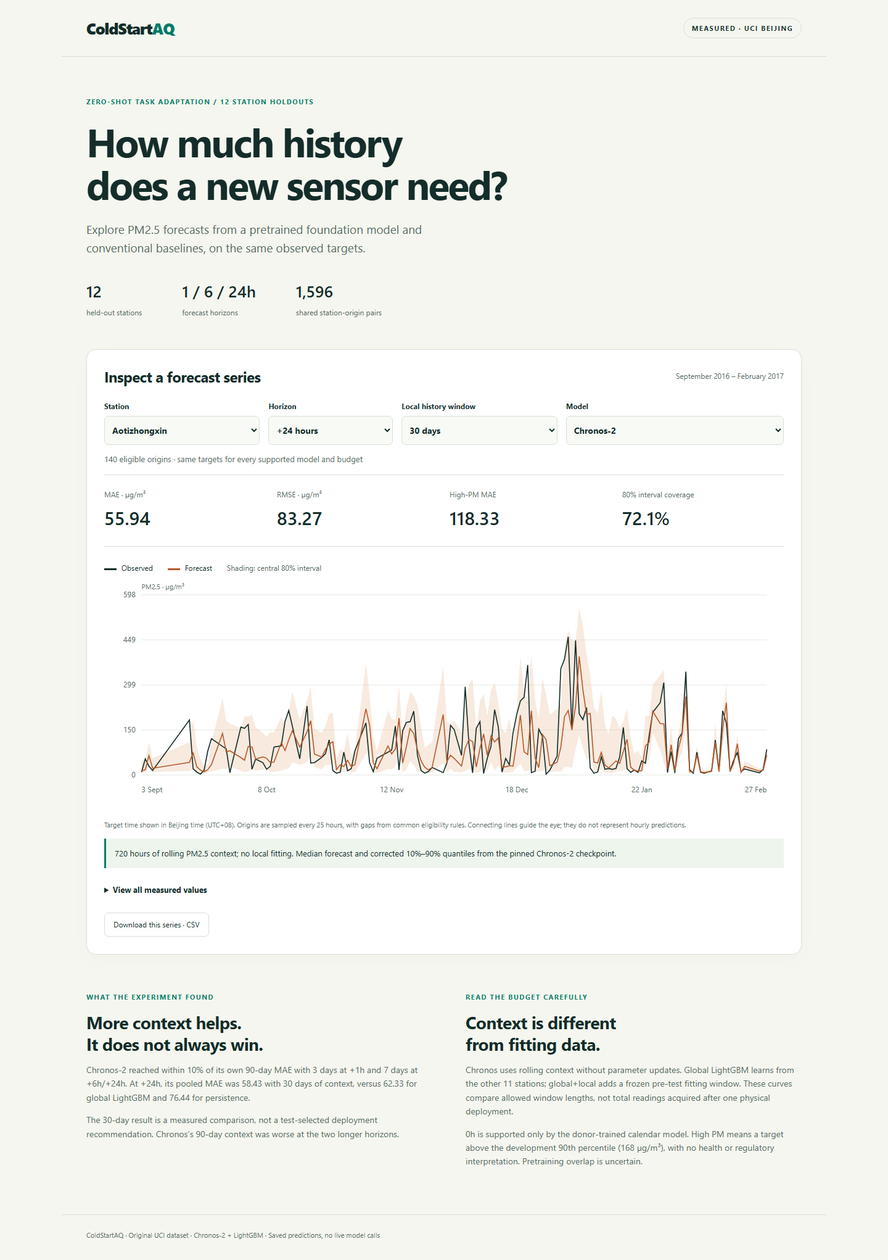
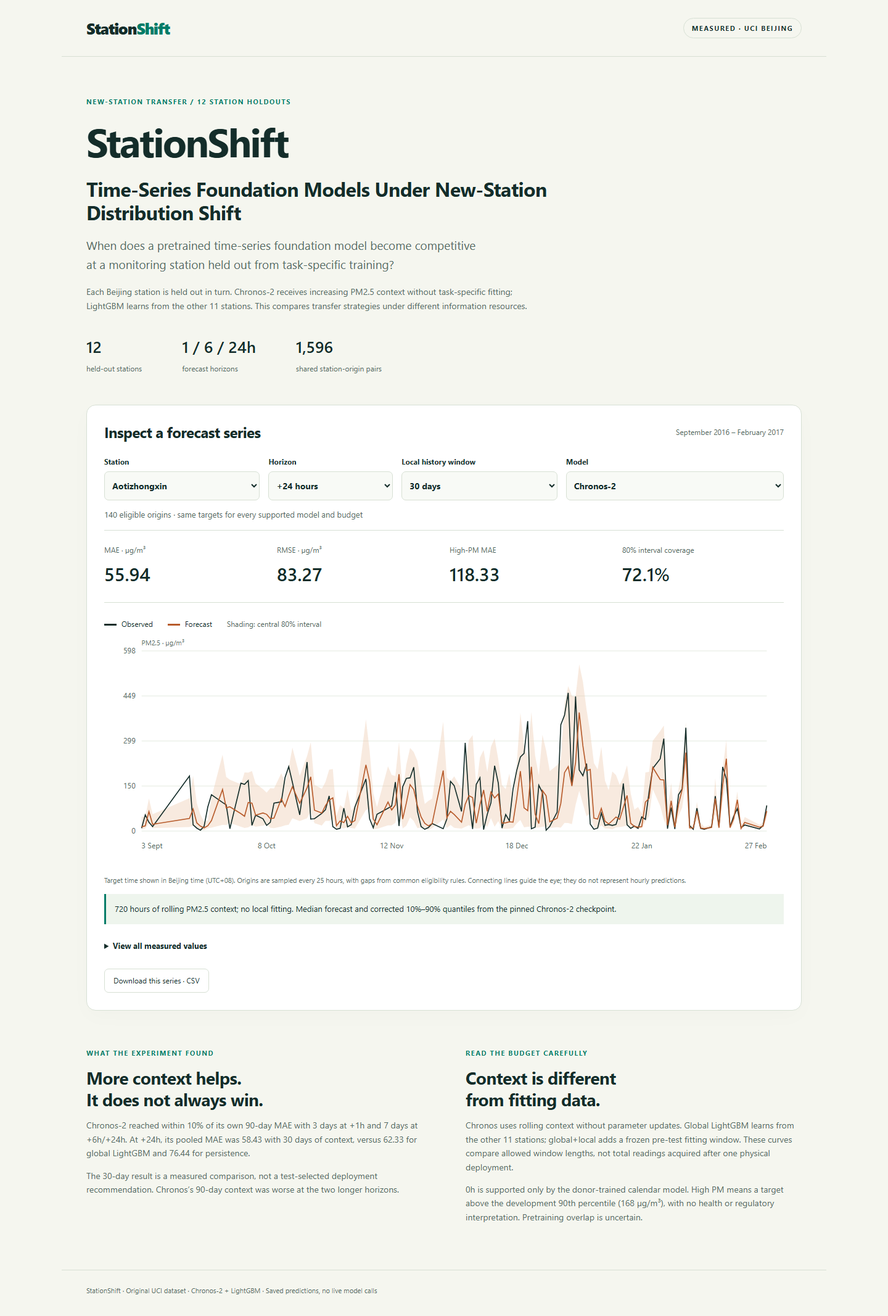
Rename project to StationShift

diff --git a/site/style.css b/site/style.css
@@ -1,3 +1,4 @@
 :root{--ink:#142d2a;--muted:#536b64;--paper:#f5f6ef;--line:#d7e0d4;--green:#007c68;--orange:#b75b2b}*{box-sizing:border-box}body{margin:0;background:var(--paper);color:var(--ink);font:16px/1.6 system-ui,-apple-system,Segoe UI,sans-serif}header,main,footer{max-width:1240px;margin:auto;padding:0 40px}header{display:flex;justify-content:space-between;align-items:center;height:92px;border-bottom:1px solid var(--line)}.brand{font-weight:800;font-size:25px;letter-spacing:-1px;color:var(--ink);text-decoration:none}.brand span{color:var(--green)}.badge,.eyebrow{font-size:11px;font-weight:750;letter-spacing:1.5px}.badge{border:1px solid var(--line);border-radius:20px;padding:7px 13px}.intro{padding:64px 0 48px}.eyebrow{color:var(--green);margin:0 0 20px}h1{font-size:clamp(38px,5vw,64px);line-height:1.08;letter-spacing:-2.6px;margin:0 0 24px;font-weight:650}.lede{font-size:19px;max-width:640px;color:var(--muted)}.facts{display:flex;gap:65px;margin-top:34px}.facts b{display:block;font-size:26px;font-weight:600}.facts span{font-size:12px;color:var(--muted)}.explorer{background:#fff;border:1px solid var(--line);border-radius:15px;padding:28px;box-shadow:0 10px 35px #142d2a05}.section-title{display:flex;align-items:center;justify-content:space-between;gap:16px;margin-bottom:24px}h2{margin:0;font-size:24px;line-height:1.25;letter-spacing:-.6px}.section-title>span{font-size:12px;color:var(--muted)}.controls{display:grid;grid-template-columns:1fr .8fr 1fr 1.4fr;gap:14px}label{font-size:12px;font-weight:650}select{display:block;width:100%;font:inherit;font-size:14px;color:var(--ink);background:#f8faf6;border:1px solid var(--line);border-radius:7px;padding:12px 8px;margin-top:6px}select:focus-visible,button:focus-visible,summary:focus-visible,a:focus-visible{outline:3px solid #dfb637;outline-offset:3px}#status{font-size:13px;color:var(--muted);min-height:22px}.metrics{display:grid;grid-template-columns:repeat(4,1fr);border-top:1px solid var(--line);border-bottom:1px solid var(--line);padding:22px 0;margin-top:12px;gap:18px}.metrics span{display:block;color:var(--muted);font-size:12px}.metrics strong{display:block;font-size:30px;font-weight:600;margin-top:4px}.legend{display:flex;gap:24px;font-size:12px;margin:25px 0 12px;flex-wrap:wrap}.observed:before,.prediction:before{content:'';display:inline-block;width:20px;height:3px;background:var(--ink);vertical-align:middle;margin-right:8px}.prediction:before{background:var(--orange)}#interval-legend{color:var(--muted)}.chart-wrap{width:100%;overflow:hidden}svg{width:100%;height:auto;display:block}.caption{font-size:11px;color:var(--muted)}.regime{font-size:13px;padding:14px;background:#eef5ed;border-left:3px solid var(--green)}summary{cursor:pointer;font-size:13px;font-weight:650;padding:12px 0}.table-scroll{max-height:360px;overflow:auto}table{border-collapse:collapse;width:100%;font-size:12px;text-align:right}th,td{padding:7px 10px;border-bottom:1px solid var(--line);white-space:nowrap}th:first-child,td:first-child{text-align:left}th{position:sticky;top:0;background:white}button{border:1px solid var(--line);border-radius:7px;color:var(--ink);background:white;font:inherit;font-size:12px;padding:9px 14px;cursor:pointer;margin-top:14px}button:hover{background:#eef5ed}.notes{display:grid;grid-template-columns:1fr 1fr;gap:70px;padding:60px 0}.notes p:not(.eyebrow){color:var(--muted);font-size:14px}.notes h2{font-size:28px}.notes .eyebrow{margin-bottom:14px}footer{border-top:1px solid var(--line);padding-top:24px;padding-bottom:32px;font-size:11px;color:var(--muted)}[hidden]{display:none!important}@media(max-width:700px){header,main,footer{padding-left:20px;padding-right:20px}header{height:75px}.badge{font-size:8px;padding:5px 8px}.intro{padding:40px 0 32px}h1{letter-spacing:-1.5px}.facts{gap:25px}.facts b{font-size:20px}.facts span{font-size:10px}.explorer{padding:18px}.section-title{display:block}.section-title>span{display:block;margin-top:10px}.controls{grid-template-columns:1fr 1fr}.metrics{grid-template-columns:1fr 1fr}.metrics strong{font-size:27px}.notes{grid-template-columns:1fr;gap:25px;padding:40px 0}.legend{gap:12px}.lede{font-size:16px}}
 :root .chart-wrap{overscroll-behavior-x:contain}
+.subtitle{max-width:820px;font-size:clamp(22px,3vw,32px);line-height:1.2}.intro-method{max-width:740px;color:var(--muted);font-size:14px}
 @media(max-width:700px){.chart-wrap{overflow-x:auto}.chart-wrap svg{min-width:640px}}

diff --git a/site/index.html b/site/index.html
@@ -2,15 +2,18 @@
 <html lang="en">
 <head>
 <meta charset="utf-8"><meta name="viewport" content="width=device-width, initial-scale=1">
-<title>ColdStartAQ · Measured forecasts</title>
+<title>StationShift: Time-Series Foundation Models Under New-Station Distribution Shift</title>
+<meta name="description" content="When do time-series foundation models transfer to a new environmental monitoring station?">
 <link rel="stylesheet" href="style.css"><script src="app.js" defer></script>
 </head>
 <body>
-<header><a class="brand" href="./">ColdStart<span>AQ</span></a><span class="badge">MEASURED · UCI BEIJING</span></header>
+<header><a class="brand" href="./">Station<span>Shift</span></a><span class="badge">MEASURED · UCI BEIJING</span></header>
 <main>
-<section class="intro"><p class="eyebrow">ZERO-SHOT TASK ADAPTATION / 12 STATION HOLDOUTS</p>
-<h1>How much history<br>does a new sensor need?</h1>
-<p class="lede">Explore PM2.5 forecasts from a pretrained foundation model and conventional baselines, on the same observed targets.</p>
+<section class="intro"><p class="eyebrow">NEW-STATION TRANSFER / 12 STATION HOLDOUTS</p>
+<h1>StationShift</h1>
+<h2 class="subtitle">Time-Series Foundation Models Under New-Station Distribution Shift</h2>
+<p class="lede">When does a pretrained time-series foundation model become competitive at a monitoring station held out from task-specific training?</p>
+<p class="intro-method">Each Beijing station is held out in turn. Chronos-2 receives increasing PM2.5 context without task-specific fitting; LightGBM learns from the other 11 stations. This compares transfer strategies under different information resources.</p>
 <div class="facts"><div><b>12</b><span>held-out stations</span></div><div><b>1 / 6 / 24h</b><span>forecast horizons</span></div><div><b id="total">1,596</b><span>shared station-origin pairs</span></div></div>
 </section>
 <section class="explorer" aria-labelledby="explorer-title">
@@ -35,5 +38,5 @@
 <section class="notes"><article><p class="eyebrow">WHAT THE EXPERIMENT FOUND</p><h2>More context helps.<br>It does not always win.</h2><p>Chronos-2 reached within 10% of its own 90-day MAE with 3 days at +1h and 7 days at +6h/+24h. At +24h, its pooled MAE was 58.43 with 30 days of context, versus 62.33 for global LightGBM and 76.44 for persistence.</p><p>The 30-day result is a measured comparison, not a test-selected deployment recommendation. Chronos’s 90-day context was worse at the two longer horizons.</p></article>
 <article><p class="eyebrow">READ THE BUDGET CAREFULLY</p><h2>Context is different<br>from fitting data.</h2><p>Chronos uses rolling context without parameter updates. Global LightGBM learns from the other 11 stations; global+local adds a frozen pre-test fitting window. These curves compare allowed window lengths, not total readings acquired after one physical deployment.</p><p>0h is supported only by the donor-trained calendar model. High PM means a target above the development 90th percentile (168 µg/m³), with no health or regulatory interpretation. Pretraining overlap is uncertain.</p></article></section>
 </main>
-<footer>ColdStartAQ · Original UCI dataset · Chronos-2 + LightGBM · Saved predictions, no live model calls</footer>
+<footer>StationShift · Original UCI dataset · Chronos-2 + LightGBM · Saved predictions, no live model calls</footer>
 </body></html>

diff --git a/site/app.js b/site/app.js
@@ -43,5 +43,5 @@ function update(){
  $('rows').replaceChildren();
  for(const r of current.rows){const tr=document.createElement('tr');for(const text of [dateFmt.format(r[0]),...r.slice(1).map(fmt)]){const td=document.createElement('td');td.textContent=text;tr.append(td);}$('rows').append(tr);}
 }
-$('download').addEventListener('click',()=>{if(!current)return;const csv='target_time_utc,observed,prediction,q10,q90\n'+current.rows.map(r=>[new Date(r[0]).toISOString(),...r.slice(1).map(v=>v??'')].join(',')).join('\n');const url=URL.createObjectURL(new Blob([csv],{type:'text/csv'}));const a=document.createElement('a');a.href=url;a.download=`coldstartaq-${$('station').value}-${$('horizon').value}h.csv`;a.click();setTimeout(()=>URL.revokeObjectURL(url),1000);});
+$('download').addEventListener('click',()=>{if(!current)return;const csv='target_time_utc,observed,prediction,q10,q90\n'+current.rows.map(r=>[new Date(r[0]).toISOString(),...r.slice(1).map(v=>v??'')].join(',')).join('\n');const url=URL.createObjectURL(new Blob([csv],{type:'text/csv'}));const a=document.createElement('a');a.href=url;a.download=`stationshift-${$('station').value}-${$('horizon').value}h.csv`;a.click();setTimeout(()=>URL.revokeObjectURL(url),1000);});
 fetch('data.json').then(r=>{if(!r.ok)throw new Error('HTTP '+r.status);return r.json();}).then(d=>{data=d;populate('station',d.stations,'Aotizhongxin');populate('model',d.models,'Chronos-2');$('total').textContent=d.totalOrigins.toLocaleString();for(const id of controls)$(id).addEventListener('change',update);update();}).catch(e=>{$('status').textContent='Could not load saved results. Serve the site with the README command and reload. '+e.message;});

diff --git a/stationshift/report.py b/stationshift/report.py
@@ -157,7 +157,7 @@ def main():
         station_distribution(station,figs)
         hardware=json.loads((folder/'hardware.json').read_text())
         counts=cohort.groupby('station').eligible.agg(['size','sum']).rename(columns={'size':'candidates','sum':'retained'})
-        text=f'''# ColdStartAQ measured results\n\nAll 12 station holdouts completed under the frozen protocol. **{len(cohort[cohort.eligible])} retained station-origin pairs** from {len(cohort)} candidates, each scored at 1, 6 and 24 hours. PM2.5 errors are µg/m³.\n\n## Accuracy and cost\n\n{table(pooled,costs)}\n\nHigh-PM MAE combines the three horizons, weighting qualifying targets equally. Threshold: observed PM2.5 >168 µg/m³, the development-only pooled 90th percentile. Horizon-specific high errors and bias are in metrics.csv. No health interpretation is intended.\n\n![Pooled adaptation curves](../results/figures/adaptation_pooled.png)\n\n## History to within 10% of mature performance\n\n{th.to_markdown(index=False,floatfmt='.2f')}\n\nEarliest budget with all larger supported budgets also within 10% of its own 90d MAE; not a cross-model usefulness threshold. Per-station thresholds are in station_history_threshold.csv.\n\n## Probabilistic performance (Chronos only)\n\n{probabilistic.to_markdown(index=False,floatfmt='.3f')}\n\nIntervals target 80% coverage. Pinball averages quantiles .1/.5/.9. High-event calibration is conditional on observed extremes, so it need not equal marginal 80% even for a marginally calibrated forecaster. Deterministic baselines have no comparable intervals.\n\n## Coverage and uncertainty\n\n{counts.to_markdown()}\n\nStation-level MAE/RMSE/MASE and bias: station_metrics.csv; individual station curves: results/figures/adaptation_STATION.png. metrics.csv contains 95% paired station-cluster bootstrap intervals and paired MAE differences against persistence (2000 replicates). Resampling whole stations preserves serial dependence. Correlated citywide shocks and only 12 stations limit interval interpretation. Complete-history eligibility and sparse 25-hour sampling limit generalization to outages or every hourly issuance.\n\n## Efficiency\n\nGPU: {hardware['gpu']}; CPU: {hardware['processor']}; four CPU threads. Chronos has {hardware['pretrained_parameters']:,} frozen parameters. No API fees. costs.csv reports actual donor/local sample counts, tree leaf counts and exclusive fit/inference times. Cumulative process peak CUDA allocation at station completion is in each complete.json; these are not independent station peaks. Model load timing and package versions: hardware.json. Local fitting samples can be fewer than the nominal clock-hour budget due to horizon/feature boundaries and missingness. Tree leaf counts are not directly comparable to neural parameter counts.\n\n## Interpretation and limitations\n\nThe experiment compares **history-window budgets**, not the time required after a single sensor deployment. LightGBM global+local uses a frozen pre-test H-hour fitting window and rolling 24-hour inference context; Chronos uses a rolling H-hour context with no fitting. Thus the models consume different kinds of history and do not have equal total acquisition budgets. A plateau in the global/naive curves reflects their fixed feature footprints. H=0 has only the donor-trained calendar reference; a context-free Chronos forecast is N/A.\n\nThese are zero-shot task-adaptation measurements, not a guarantee Beijing was absent from pretraining. No claim of novelty for air-quality forecasting, station holdout, uncertainty, or chronological evaluation. Only one TSFM and one fixed LightGBM specification were tested. There is no test tuning or optional masking study.\n\n## Error inspection\n\nTop 20 absolute errors for each mature model: worst_cases.csv. Tags are overlapping observed-variable descriptions (rapid rises/falls, high targets, wind changes, weather changes, long historical gaps, lag-like predictions). They do not establish atmospheric causation. Negative bias means underprediction. The report's companion FINDINGS.md summarizes measured comparisons and these cases.\n'''
+        text=f'''# StationShift measured results\n\nAll 12 station holdouts completed under the frozen protocol. **{len(cohort[cohort.eligible])} retained station-origin pairs** from {len(cohort)} candidates, each scored at 1, 6 and 24 hours. PM2.5 errors are µg/m³.\n\n## Accuracy and cost\n\n{table(pooled,costs)}\n\nHigh-PM MAE combines the three horizons, weighting qualifying targets equally. Threshold: observed PM2.5 >168 µg/m³, the development-only pooled 90th percentile. Horizon-specific high errors and bias are in metrics.csv. No health interpretation is intended.\n\n![Pooled adaptation curves](../results/figures/adaptation_pooled.png)\n\n## History to within 10% of mature performance\n\n{th.to_markdown(index=False,floatfmt='.2f')}\n\nEarliest budget with all larger supported budgets also within 10% of its own 90d MAE; not a cross-model usefulness threshold. Per-station thresholds are in station_history_threshold.csv.\n\n## Probabilistic performance (Chronos only)\n\n{probabilistic.to_markdown(index=False,floatfmt='.3f')}\n\nIntervals target 80% coverage. Pinball averages quantiles .1/.5/.9. High-event calibration is conditional on observed extremes, so it need not equal marginal 80% even for a marginally calibrated forecaster. Deterministic baselines have no comparable intervals.\n\n## Coverage and uncertainty\n\n{counts.to_markdown()}\n\nStation-level MAE/RMSE/MASE and bias: station_metrics.csv; individual station curves: results/figures/adaptation_STATION.png. metrics.csv contains 95% paired station-cluster bootstrap intervals and paired MAE differences against persistence (2000 replicates). Resampling whole stations preserves serial dependence. Correlated citywide shocks and only 12 stations limit interval interpretation. Complete-history eligibility and sparse 25-hour sampling limit generalization to outages or every hourly issuance.\n\n## Efficiency\n\nGPU: {hardware['gpu']}; CPU: {hardware['processor']}; four CPU threads. Chronos has {hardware['pretrained_parameters']:,} frozen parameters. No API fees. costs.csv reports actual donor/local sample counts, tree leaf counts and exclusive fit/inference times. Cumulative process peak CUDA allocation at station completion is in each complete.json; these are not independent station peaks. Model load timing and package versions: hardware.json. Local fitting samples can be fewer than the nominal clock-hour budget due to horizon/feature boundaries and missingness. Tree leaf counts are not directly comparable to neural parameter counts.\n\n## Interpretation and limitations\n\nThe experiment compares **history-window budgets**, not the time required after a single sensor deployment. LightGBM global+local uses a frozen pre-test H-hour fitting window and rolling 24-hour inference context; Chronos uses a rolling H-hour context with no fitting. Thus the models consume different kinds of history and do not have equal total acquisition budgets. A plateau in the global/naive curves reflects their fixed feature footprints. H=0 has only the donor-trained calendar reference; a context-free Chronos forecast is N/A.\n\nThese are zero-shot task-adaptation measurements, not a guarantee Beijing was absent from pretraining. No claim of novelty for air-quality forecasting, station holdout, uncertainty, or chronological evaluation. Only one TSFM and one fixed LightGBM specification were tested. There is no test tuning or optional masking study.\n\n## Error inspection\n\nTop 20 absolute errors for each mature model: worst_cases.csv. Tags are overlapping observed-variable descriptions (rapid rises/falls, high targets, wind changes, weather changes, long historical gaps, lag-like predictions). They do not establish atmospheric causation. Negative bias means underprediction. The report's companion FINDINGS.md summarizes measured comparisons and these cases.\n'''
         (ROOT/'docs/RESULTS.md').write_text(text,encoding='utf-8')
         cis=pooled[(pooled.history_hours==2160)&pooled.model.isin(['Chronos-2','LightGBM global','LightGBM global+local','Persistence'])][['model','horizon','mae','mae_ci_low','mae_ci_high','delta_vs_persistence','delta_ci_low','delta_ci_high']]
         crossings=sum(json.loads(f.read_text())['quantile_crossings'] for f in complete)

diff --git a/scripts/check_site.py b/scripts/check_site.py
@@ -13,6 +13,10 @@ with sync_playwright() as p:
     page.on('response',lambda r: bad_responses.append(f'{r.status} {r.url}') if r.status>=400 else None)
     page.goto('http://127.0.0.1:8000/',wait_until='networkidle')
     page.locator('#result').wait_for(state='visible')
+    assert page.title()=='StationShift: Time-Series Foundation Models Under New-Station Distribution Shift'
+    assert page.locator('h1').inner_text()=='StationShift'
+    assert page.locator('.brand').inner_text()=='StationShift'
+    assert page.locator('meta[name="description"]').get_attribute('content')=='When do time-series foundation models transfer to a new environmental monitoring station?'
     assert page.locator('#mae').inner_text()=='55.94'
     assert page.locator('#station option').count()==12
     page.screenshot(path=str(out/'desktop.png'),full_page=True)
@@ -35,6 +39,7 @@ with sync_playwright() as p:
     assert page.locator('#result').is_visible()
     with page.expect_download() as download:
         page.locator('#download').click()
+    assert download.value.suggested_filename=='stationshift-Wanliu-6h.csv'
     download.value.save_as(str(out/'download.csv'))
     assert (out/'download.csv').read_text().startswith('target_time_utc,observed,prediction,q10,q90')
     page.locator('#model').select_option('LightGBM global+local')
@@ -43,6 +48,7 @@ with sync_playwright() as p:
     page.locator('#station').focus(); page.keyboard.press('Tab')
     assert page.locator('#horizon').evaluate('(e)=>e===document.activeElement')
     page.set_viewport_size({'width':390,'height':844})
+    assert page.locator('h1').inner_text()=='StationShift'
     assert page.evaluate('document.documentElement.scrollWidth<=window.innerWidth')
     assert page.locator('.chart-wrap').evaluate('(e)=>e.scrollWidth>e.clientWidth && getComputedStyle(e).overflowX==="auto"')
     page.screenshot(path=str(out/'mobile.png'),full_page=True)
@@ -54,7 +60,7 @@ with sync_playwright() as p:
     failed.goto('http://127.0.0.1:8000/',wait_until='networkidle')
     assert 'Could not load saved results' in failed.locator('#status').inner_text()
     summary={'browser':'headless Chromium','desktop':'1440x1100','mobile':'390x844',
-             'checks':['default measured MAE','all selectors','unsupported budgets','interval availability',
+             'checks':['StationShift desktop/mobile branding','page title and description','renamed CSV filename','default measured MAE','all selectors','unsupported budgets','interval availability',
                        'CSV download','local fallback explanation','keyboard tab','mobile overflow','failed data request'],
              'page_errors':errors,'unexpected_http_errors':bad_responses,'passed':True}
     (out/'checks.json').write_text(json.dumps(summary,indent=2))

diff --git a/tests/test_outputs.py b/tests/test_outputs.py
@@ -4,8 +4,8 @@ import json
 import numpy as np
 import pandas as pd
 import pytest
-from coldstartaq.data import ROOT, load, features, TEST_START, training_indices
-from coldstartaq.report import aggregate
+from stationshift.data import ROOT, load, features, TEST_START, training_indices
+from stationshift.report import aggregate
 from lightgbm import Booster
 
 def test_every_setting_uses_identical_measured_targets():

diff --git a/tests/test_metrics.py b/tests/test_metrics.py
@@ -1,6 +1,6 @@
 import numpy as np
 import pandas as pd
-from coldstartaq.report import score, thresholds, confidence
+from stationshift.report import score, thresholds, confidence
 
 def test_metrics_with_hand_computed_forecasts():
     g=pd.DataFrame(dict(observed=[0.,10.],prediction=[2.,6.],mase_scale=[2.,2.],high_pm=[False,True],

diff --git a/tests/test_protocol.py b/tests/test_protocol.py
@@ -1,6 +1,6 @@
 import numpy as np
 import pandas as pd
-from coldstartaq.data import features, training_indices, origins, load, TEST_START
+from stationshift.data import features, training_indices, origins, load, TEST_START
 
 def test_features_cannot_see_future():
     df=load()['Aotizhongxin'].iloc[:200].copy()

diff --git a/stationshift/benchmark.py b/stationshift/benchmark.py
@@ -1,4 +1,4 @@
-"""Run: python -m coldstartaq.benchmark --station Aotizhongxin (or --all)."""
+"""Run: python -m stationshift.benchmark --station Aotizhongxin (or --all)."""
 import argparse
 import json
 import platform

diff --git a/stationshift/__init__.py b/stationshift/__init__.py
@@ -1,0 +1,1 @@
+"""StationShift: reproducible station-history forecasting benchmark."""

diff --git a/README.md b/README.md
@@ -1,8 +1,31 @@
-# ColdStartAQ
+# StationShift
 
-**Zero- and few-shot air-quality forecasting with time-series foundation models.**
+**Time-Series Foundation Models Under New-Station Distribution Shift**
 
-How much station-specific history does a pretrained model need to forecast PM2.5? This compact benchmark uses the original UCI Beijing Multi-Site Air Quality dataset, leave-one-station-out LightGBM models, persistence, daily/weekly seasonal forecasts and frozen Amazon Chronos-2.
+> When does a pretrained time-series foundation model become competitive at a monitoring station held out from task-specific training?
+
+All 12 Beijing monitoring stations are held out in turn. One pretrained model, **Chronos-2**, receives increasing target-station PM2.5 context with no task-specific fitting. **LightGBM** learns from the other 11 stations. Persistence and daily/weekly seasonal forecasts provide simple references. The experiment studies new-station transfer and context-budget effects on PM2.5 forecasts at +1, +6 and +24 hours.
+
+## Key findings
+
+* **Donor-trained LightGBM is already competitive with 24 hours of target-station inference history.** Its pooled +24h MAE is **62.33 µg/m³**, without target-station fitting.
+* **Chronos-2 improves longer-horizon average forecasts with sufficient context.** At 30 days, its +24h MAE is **58.43 µg/m³**, versus **62.33** for global LightGBM and **76.44** for persistence. These are descriptive measured comparisons, not evidence of statistical superiority over LightGBM. More context is not uniformly better: Chronos's 90-day context performs worse at +6h and +24h than its 30-day context.
+* **Pretraining did not automatically buy local-data efficiency.** Chronos reaches within 10% of its own 90-day MAE with **3d / 7d / 7d** at +1h / +6h / +24h; global LightGBM meets its corresponding within-model threshold with **1d** of inference context. This does not establish that Chronos needs less local history.
+* **Long-horizon extreme-PM uncertainty is a major failure.** With 30-day context, Chronos's nominal 80% interval covers **67.7%** of +24h targets overall and only **59.6%** of high-PM targets; high-PM bias is **−104.31 µg/m³**. Lower average error does not imply calibrated uncertainty during extremes.
+
+![Pooled context-budget curves for all 12 held-out stations, by forecast horizon](results/figures/adaptation_pooled.png)
+
+## What is being compared?
+
+| Strategy | Task-specific fitting | Target-station information at inference |
+|---|---|---|
+| Chronos-2 | None; frozen pretrained weights | H hours of PM2.5 context; no covariates |
+| Global LightGBM | Other 11 stations only | 40 features spanning pollutants, weather, calendar variables and 24 hours of history |
+| Global+local LightGBM | Donors plus an H-hour pre-test target-station fitting window | Same 40-feature, 24-hour inference representation |
+
+This compares new-station transfer strategies under different information resources, not identical-input model architectures or equal data budgets. A context budget is a history-window length, **not days elapsed since deployment**. Chronos has no parameter adaptation in this experiment.
+
+> **Scope:** one city, 12 stations, one evaluated TSFM; unknown pretraining overlap; history-window comparison rather than literal deployment age; complete-history eligibility excludes severe recent outages.
 
 Start with [measured results](docs/RESULTS.md), [findings](docs/FINDINGS.md), or the [first milestone](docs/MILESTONE_1.md). [Dataset](docs/DATASET.md) and [frozen protocol](docs/PROTOCOL.md) explain provenance, chronological boundaries and exclusions. No model is tuned on test outcomes.
 
@@ -18,17 +41,17 @@ python -m venv .venv
 .\.venv\Scripts\python.exe scripts/audit.py
 .\.venv\Scripts\python.exe scripts/model_acquire.py
 .\.venv\Scripts\python.exe -m pytest -q
-.\.venv\Scripts\python.exe -m coldstartaq.benchmark --station Aotizhongxin
-.\.venv\Scripts\python.exe -m coldstartaq.report
-.\.venv\Scripts\python.exe -m coldstartaq.benchmark --all
-.\.venv\Scripts\python.exe -m coldstartaq.report
+.\.venv\Scripts\python.exe -m stationshift.benchmark --station Aotizhongxin
+.\.venv\Scripts\python.exe -m stationshift.report
+.\.venv\Scripts\python.exe -m stationshift.benchmark --all
+.\.venv\Scripts\python.exe -m stationshift.report
 .\.venv\Scripts\python.exe scripts/build_site.py
 .\.venv\Scripts\python.exe -m http.server 8000 --bind 127.0.0.1 --directory site
 ```
 
 Open http://127.0.0.1:8000 for the results explorer. It is a static site, with no API keys, build system, remote scripts or services. It displays saved measured predictions only.
 
-For the browser checks, install `requirements-browser.txt`, run `python -m playwright install chromium`, then run `python scripts/check_site.py` while the server is running. Desktop/mobile screenshots and the check summary are in `results/browser/`.
+Test commands and browser-check evidence are in [verification](docs/VERIFICATION.md).
 
 Acquisition downloads each archive/checkpoint once and checks SHA256 pins on later runs. Generated data and checkpoint weights are ignored; manifests are committed. Models and predictions are saved per station. Runs resume stations with `complete.json`; to recompute, archive that station's result directory first. Do not mix results from changed code, settings or checkpoints. `results/frozen.json` rejects changes to the protocol or development-derived scoring constants. Raw booster files are local artifacts and can be regenerated.
 
@@ -52,6 +75,4 @@ Source dataset: Song Chen (2017), [Beijing Multi-Site Air Quality, UCI](https://
 
 ## Validation
 
-The measured run passed 11 tests covering causal feature footprints, fitting-window boundaries, forecast alignment, hand-computed metric arithmetic, sustained history thresholds, paired-bootstrap behavior, identical forecast cohorts, saved-metric recomputation, saved-booster predictions and site export consistency. The saved-booster check skips on a checkout without regenerated ignored booster files.
-
-Headless Chromium checks passed at desktop and mobile sizes, including all selectors, unavailable budgets, quantile availability, CSV download, keyboard focus, responsive overflow and failed-data loading. Evidence is saved in `results/browser/`. The in-app browser had no connection, so the browser check used locally installed standalone Chromium.
+The existing suite has 11 checks covering chronology, forecast alignment, metrics and saved outputs. Desktop/mobile browser checks verify the measured explorer. See [verification](docs/VERIFICATION.md) for commands, evidence and environment details. The project name, package and repository slug are `StationShift`, `stationshift` and `stationshift`, respectively.
